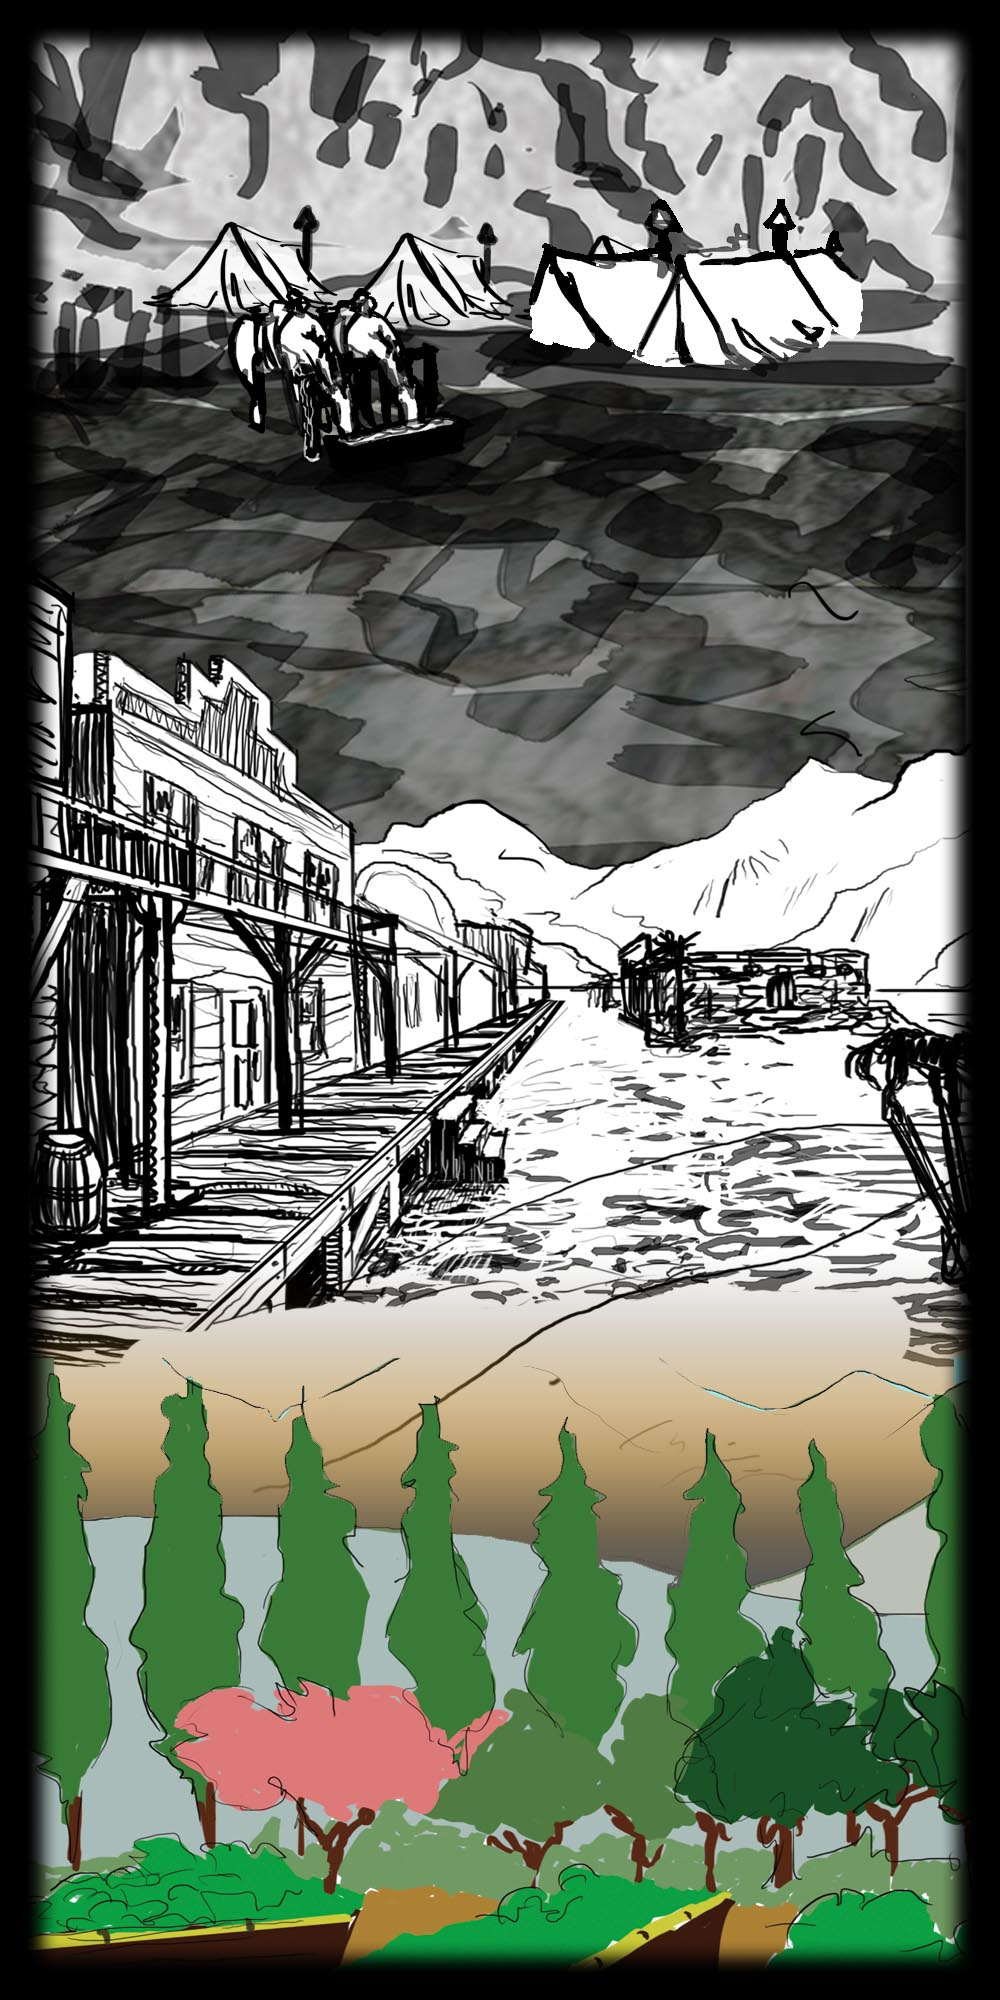
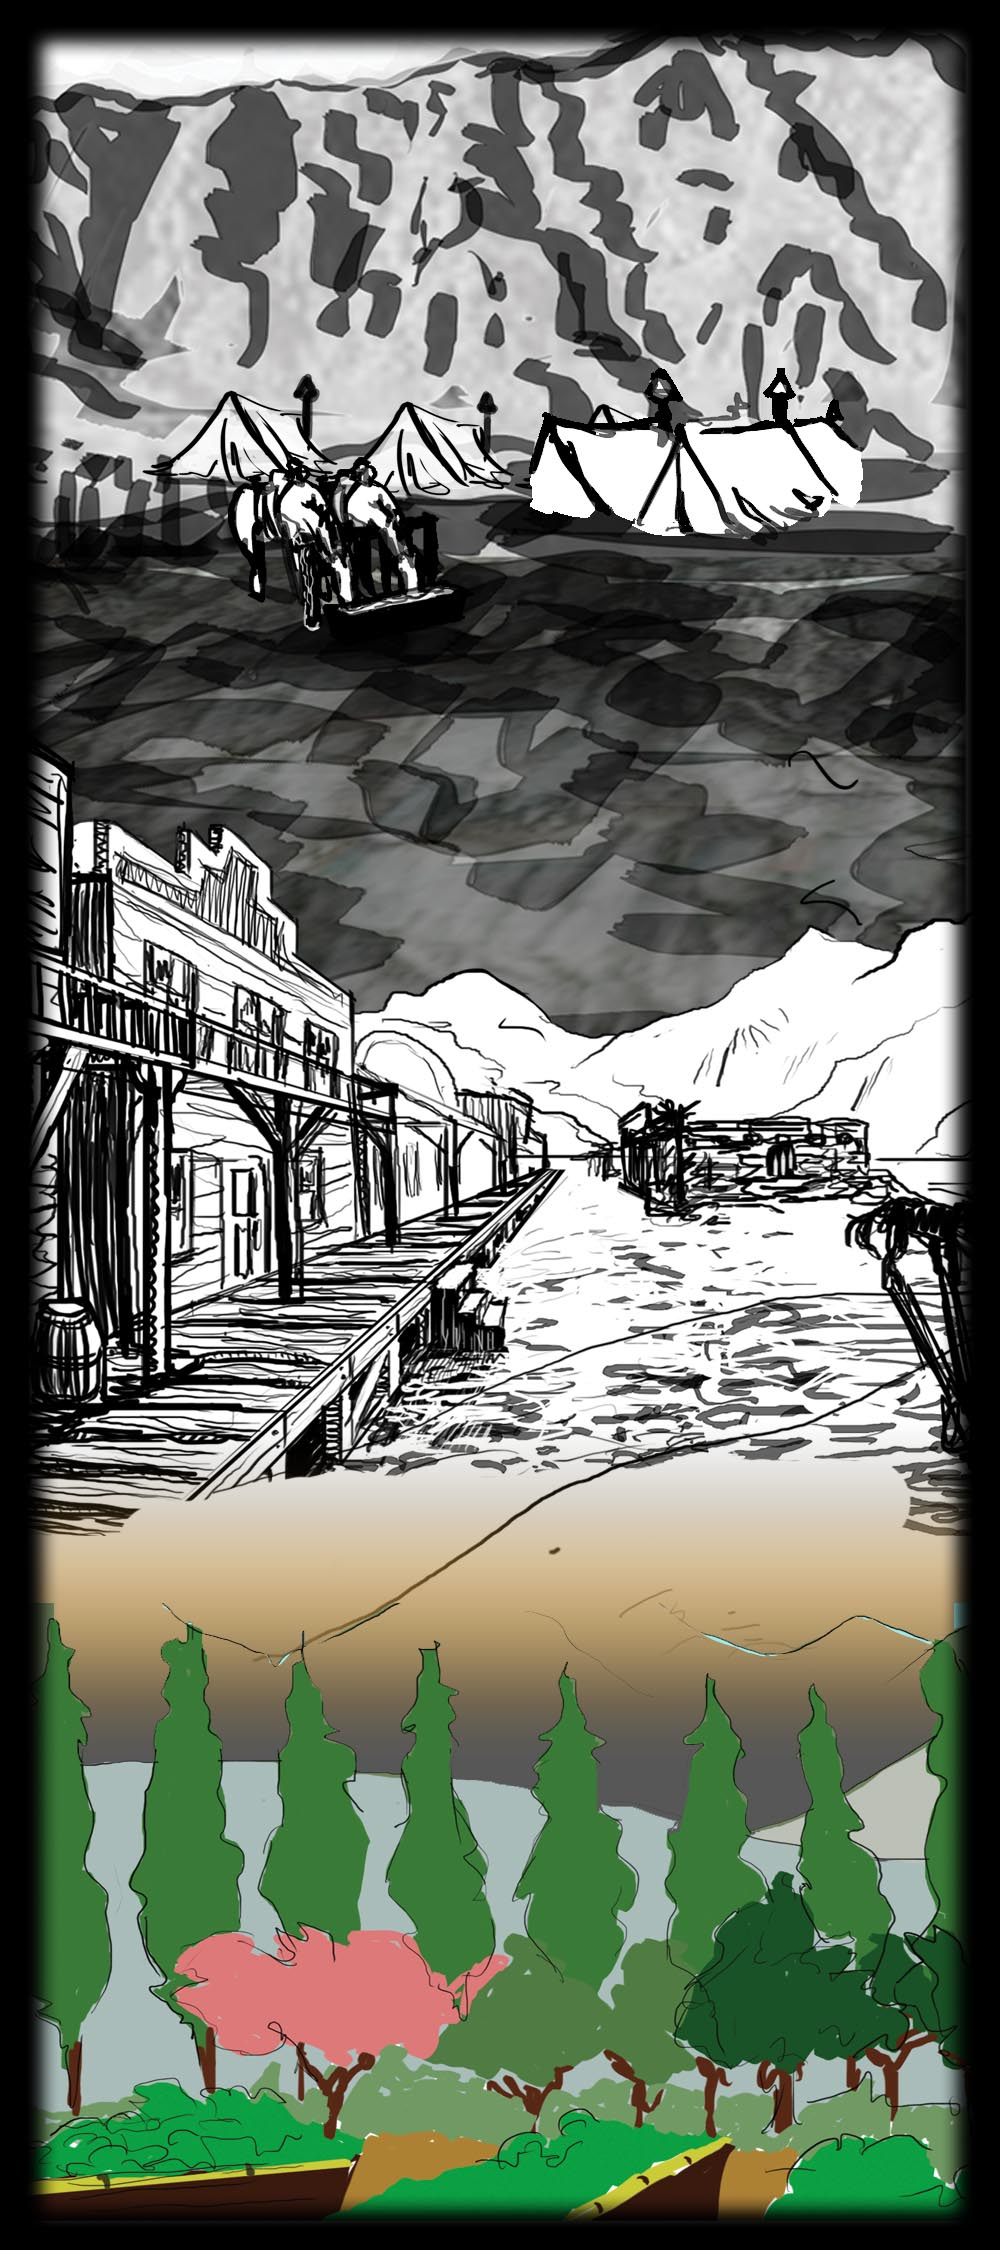
added die images and created variable to hold die count

diff --git a/js/app.js b/js/app.js
@@ -43,7 +43,7 @@ p1 = new piece(0,3,"images/p1-sherrif.png");
 
 p2 = new piece(0,3,"p2piece");
 
-printBoard(boardArray);
+// printBoard(boardArray);
 
 p1inArray = boardArray[p1.col][p1.row];
 
@@ -115,15 +115,22 @@ $('html').on('keydown', function(el) {
 	}
 });
 
-$('body').keyup(function(el) {
-	function dieRoll() {  
-		count = 0;
-		$('#die').html((Math.floor((Math.random()*6)+1)))
-		}
-	if (el.keyCode == 32 ) {
-		return dieRoll()
-	}
+$('body').keyup(function(el) { 
+	if ( el.keyCode == 32 ) { return dieRoll(); 
+ 	};
 });
+
+var dieRoll = function() {  
+	count = 0;
+	var currRole = Math.floor((Math.random()*6)+1);
+	if (currRole == 1) { $('#die').html('<img src="images/die-1.jpg" />') }
+	else if (currRole == 2) { $('#die').html('<img src="images/die-2.jpg" />') }
+	else if (currRole == 3) { $('#die').html('<img src="images/die-3.jpg" />') }
+	else if (currRole == 4) { $('#die').html('<img src="images/die-4.jpg" />') }
+	else if (currRole == 5) { $('#die').html('<img src="images/die-5.jpg" />') }
+	else if (currRole == 6) { $('#die').html('<img src="images/die-6.jpg" />') }
+	}
+
 $('aside').draggable();
 $('aside').resizable(); //can't be draggable and resizable?? 
 

diff --git a/css/style.css b/css/style.css
@@ -1,13 +1,16 @@
 body {
-  background-image: url("../images/background.jpg");
-  background-color: black;
-  background-repeat: no-repeat;
-  background-position: center;
-  background-size: 100%; }
+  background-color: black; }
 
 main {
   height: 2000px;
-  background-color: transparent; }
+  width: 850px;
+  background-color: transparent;
+  margin: 0 auto;
+  background-image: url("../images/background.jpg");
+  background-color: black;
+  background-repeat: no-repeat;
+  background-position: top center;
+  background-size: 100%; }
 
 footer {
   font-family: Tahoma, Arial;
@@ -52,7 +55,7 @@ button {
   position: fixed;
   bottom: 25px;
   left: 25px;
-  background-color: white;
+  background-color: black;
   z-index: 1;
   line-height: 75px;
   vertical-align: center;
@@ -62,7 +65,7 @@ button {
 #board {
   position: absolute;
   top: 150px;
-  left: 150px;
+  left: 20%;
   width: 770px;
   height: 1617px;
   background-color: transparent; }
@@ -89,6 +92,7 @@ button {
   background-image: url("../images/qmark.png"); }
 
 aside {
+  display: none;
   width: 25%;
   position: fixed;
   top: 150px;

diff --git a/css/style.scss b/css/style.scss
@@ -1,14 +1,17 @@
 body {
-	background-image: url('../images/background.jpg');
-	background-color: black;
-	background-repeat: no-repeat;	
-	background-position: center;
-	background-size:100%
+	background-color: black
 }
 
 main {
 	height: 2000px; 
+	width: 850px;
 	background-color: transparent;
+	margin: 0 auto;
+	background-image: url('../images/background.jpg');
+	background-color: black;
+	background-repeat: no-repeat;	
+	background-position: top center;
+	background-size: 100%
 }
 
 footer {
@@ -64,7 +67,7 @@ button {
 	position: fixed;
 	bottom: 25px;
 	left: 25px;
-	background-color: white;
+	background-color: black;
 	z-index: 1;
 	line-height: 75px;
 	vertical-align: center;
@@ -79,7 +82,7 @@ button {
 #board {
   position: absolute;
   top: 150px;
-  left: 150px;
+  left: 20%;
   width: 770px;
   height: 1617px; 
   background-color: transparent;
@@ -113,6 +116,7 @@ button {
 }
 
 aside {
+	display: none;
 	width: 25%;
 	position: fixed;
 	top: 150px;

diff --git a/index.html b/index.html
@@ -333,7 +333,7 @@
 	<p>You can move in any direction, so long as you stay along the path. You must land on the hospital to talk to Harden and get your first clue.</p>
 </aside>
 
-<footer>Artwork by Quinn Salazar, Storyline by T.J. Troy, Game Design/Development by www.JUSTJIFFY.com
+<footer>Artwork by Quinn Salazar, Storyline by T.J. Troy, Game Design/Development by Juli Emmel <br><strong>www.JUSTJIFFY.com</strong>
 </footer>
 
 <script src="js/app.js"></script>
